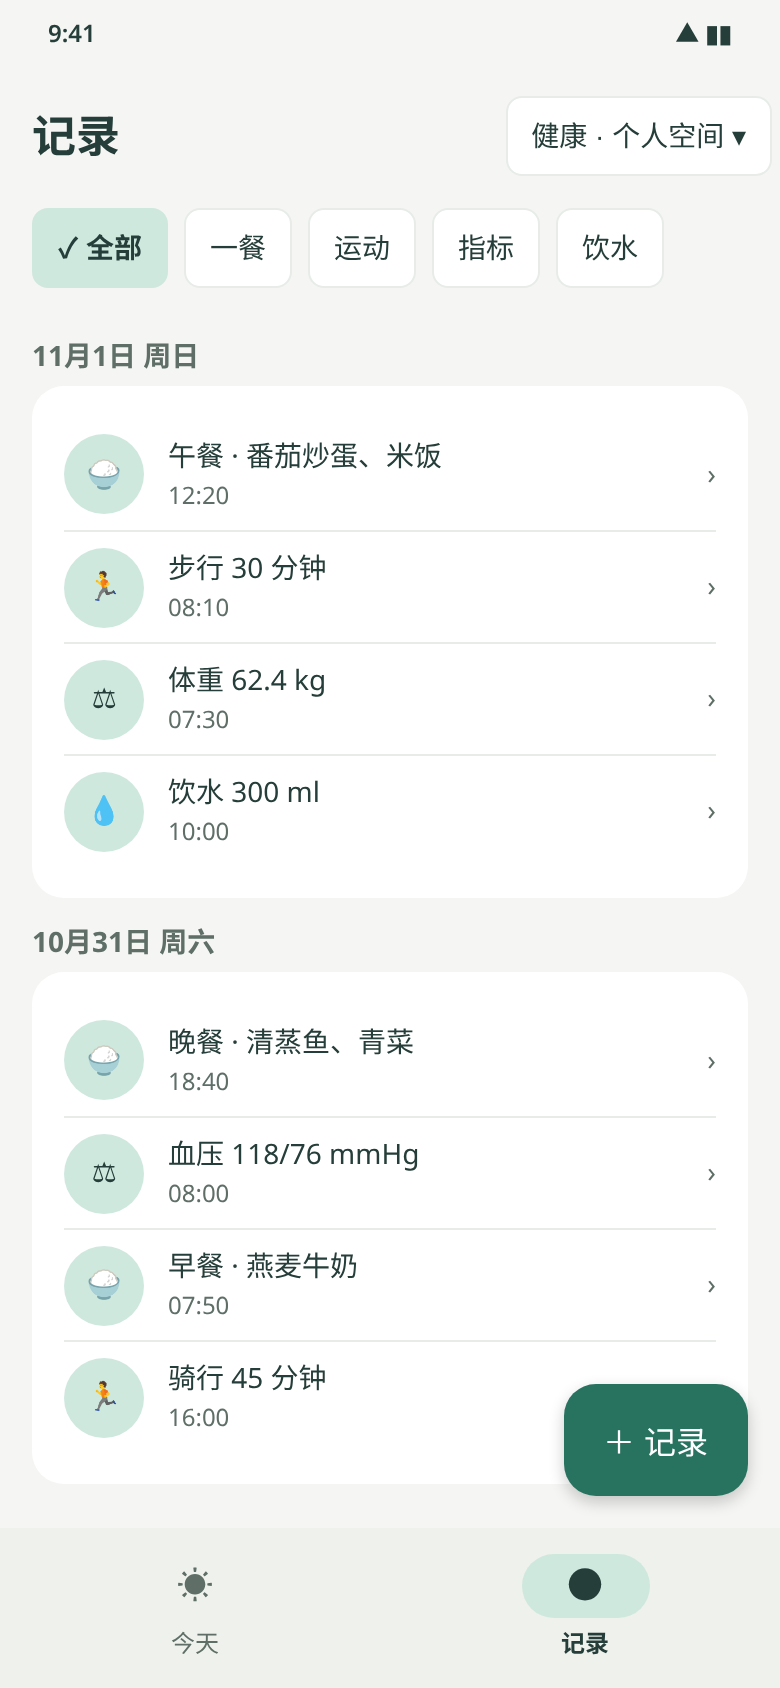
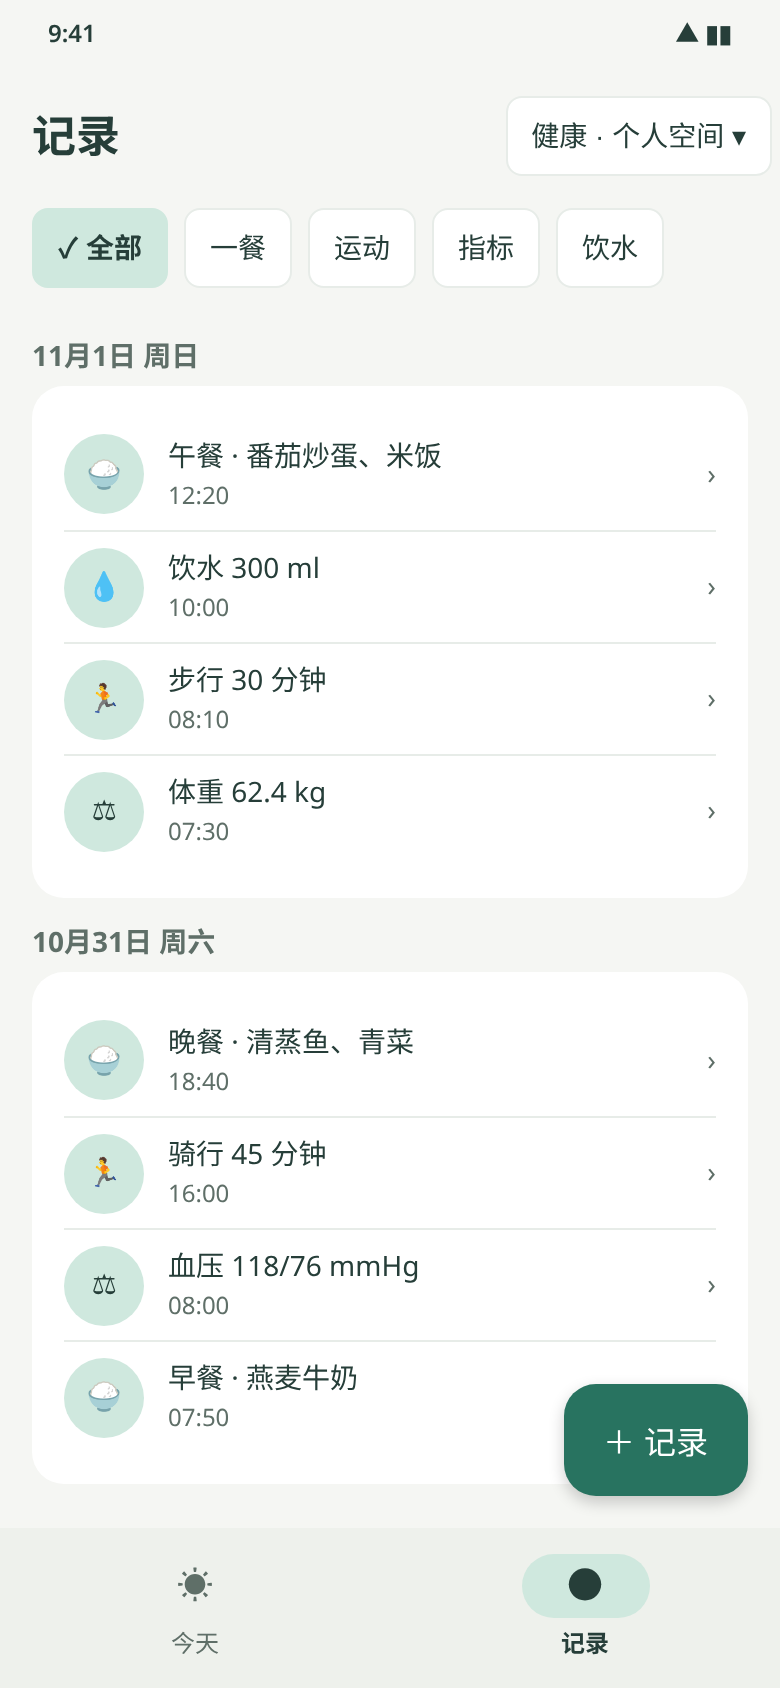
设计：令牌认证说明、同日按时间倒序、409 重试本地日志

diff --git a/docs/native-v1/prototype.html b/docs/native-v1/prototype.html
@@ -61,7 +61,7 @@ S['today-offline']=['今天 · 离线 + 待同步',()=>today({pending:1,banner:'
 S['today-syncfail']=['今天 · 同步失败',()=>today({pending:1,banner:'<div class="banner fail" role="alert">⚠ 1 条记录同步失败<button class="btn t" onclick="go(\'today-syncing\')">重试</button></div>'})];
 S['today-finance']=['今天 · 金融（只读）',()=>today({wb:'金融',nofab:1,body:`<div class="card"><h3>11月1日 周日</h3><div class="hint">金融工作台 · 只读</div></div><div class="card"><h3>最近备忘</h3><div class="row"><span class="ic">✎</span><div class="t">季度定投计划复盘<div class="small">10月30日</div></div></div><div class="row"><span class="ic">✎</span><div class="t">信用卡账单日改到 5 号<div class="small">10月28日</div></div></div></div><div class="card"><h3>待办</h3><div class="row"><span class="ic">☐</span><div class="t">11月10日前缴房贷<div class="small">截止 11月10日</div></div></div><div class="row"><span class="ic">☐</span><div class="t">整理年度保险单<div class="small">无截止</div></div></div></div><p class="hint" style="text-align:center;padding:24px 0">金融记录暂时请在网页版添加</p>`})];
 S['sync-conflict']=['同步冲突 · Snackbar',()=>today({snack:'<div class="snack" role="status">『早餐』已在别处修改，已更新为最新内容<button>知道了</button></div>'})];
-const recs=(f)=>{const all=[['11月1日 周日',[['meal','🍚','午餐 · 番茄炒蛋、米饭','12:20'],['exercise','🏃','步行 30 分钟','08:10'],['metric','⚖','体重 62.4 kg','07:30'],['water','💧','饮水 300 ml','10:00']]],['10月31日 周六',[['meal','🍚','晚餐 · 清蒸鱼、青菜','18:40'],['metric','⚖','血压 118/76 mmHg','08:00'],['meal','🍚','早餐 · 燕麦牛奶','07:50'],['exercise','🏃','骑行 45 分钟','16:00']]]];
+const recs=(f)=>{const all=[['11月1日 周日',[['meal','🍚','午餐 · 番茄炒蛋、米饭','12:20'],['water','💧','饮水 300 ml','10:00'],['exercise','🏃','步行 30 分钟','08:10'],['metric','⚖','体重 62.4 kg','07:30']]],['10月31日 周六',[['meal','🍚','晚餐 · 清蒸鱼、青菜','18:40'],['exercise','🏃','骑行 45 分钟','16:00'],['metric','⚖','血压 118/76 mmHg','08:00'],['meal','🍚','早餐 · 燕麦牛奶','07:50']]]];
 return sb+`<div class="ab"><h1>记录</h1><button class="chip" onclick="go('switcher')">健康 · 个人空间 ▾</button></div><div class="content"><div class="ftabs" role="tablist">${[['','全部'],['meal','一餐'],['exercise','运动'],['metric','指标'],['water','饮水']].map(([k,t])=>`<button class="chip ${k==f?'on':''}" role="tab" aria-selected="${k==f}" onclick="go('${k?'records-filtered':'records'}')">${k==f?'✓ ':''}${t}</button>`).join('')}</div>${all.map(([d,rs])=>{rs=rs.filter(r=>!f||r[0]==f);return rs.length?`<div class="gh">${d}</div><div class="card">${rs.map(r=>`<div class="row" onclick="go('form-meal-edit')"><span class="ic">${r[1]}</span><div class="t">${r[2]}<div class="small">${r[3]}</div></div><span class="hint">›</span></div>`).join('')}</div>`:''}).join('')}</div><button class="fab" onclick="go('add-sheet')">＋ 记录</button>`+nb(1)};
 S['records']=['记录 · 全部',()=>recs('')];
 S['records-filtered']=['记录 · 筛选一餐',()=>recs('meal')];

diff --git a/docs/native-v1/design.md b/docs/native-v1/design.md
@@ -41,7 +41,7 @@ NavigationBar 仅 2 项：「今天」「记录」。账号入口为今天页 ap
 - 主按钮 48dp 全宽；登录中：禁用 + 18dp spinner +「登录中…」，按钮宽度固定不跳动。
 - 状态行（固定 24dp 高，role=status）：3s 后「网络较慢，正在连接…」；15s 取消请求，显示「连接超时，请重试」（error 色），按钮恢复。
 - 401：密码框 error 态，下方「邮箱或密码不正确」。
-- 会话：cookie 存 secure storage，30 天自动续期；启动时有 cookie 直接进今天（先用缓存），后台 `/api/auth/me`，401 才回登录。
+- 会话：App 登录后拿到专用令牌，存在系统安全存储里，请求时放在 Authorization: Bearer 头里，30 天有效，用着自动续期；启动时有令牌直接进今天（先用缓存），后台 `/api/auth/me`，401 才回登录。
 ### 今天（today*.png）
 - 顺序：离线/失败横幅 → 日期概要卡 → 4 个快捷按钮（72dp）→ 今日记录卡（行 56dp+，图标 40 圆）。
 - 空状态：概要显示「今天还没有记录」，插画卡「从第一条记录开始」。
@@ -50,7 +50,7 @@ NavigationBar 仅 2 项：「今天」「记录」。账号入口为今天页 ap
 概要卡「金融工作台 · 只读」→「最近备忘」卡 → 「待办」卡（只读行）；隐藏 FAB 与快捷按钮；空白区居中 hint「金融记录暂时请在网页版添加」。
 ### 记录（records.png, records-filtered.png）
 - App bar「记录」+ 工作台切换片；下方横向 FilterChip：全部 / 一餐 / 运动 / 指标 / 饮水（单选，选中 = ✓ + 底色 + 加粗，高 40、点击区 48）。
-- 按日期分组（组标题 14sp/700 hint 色），组内卡片 + 56dp 行，右侧 ›；点行进入编辑表单。保留 FAB。
+- 按日期分组（组标题 14sp/700 hint 色），组内卡片 + 56dp 行，右侧 ›；同一天内按时间倒序（最新在上）；点行进入编辑表单。保留 FAB。
 - 分页：本地缓存按日期倒序懒加载。
 ### 新建底部表单（add-sheet.png）
 四项 56dp 行；底部提示「用药、就诊、附件请在网页版记录」。
@@ -76,7 +76,7 @@ NavigationBar 仅 2 项：「今天」「记录」。账号入口为今天页 ap
 | 待同步 | 记录行右侧 badge「⏱ 待同步」（图标+文字） |
 | 失败 | error 横幅「N 条记录同步失败 [重试]」；行内 badge 变「同步失败」 |
 - 本地 SQLite 按 `userId/workbench/space` 分库或分表；退出登录、切账号删除整库。
-- 写入先落本地，App 生成 UUID v4 作为 id，入队上传。服务端（dev 另开 PR）：`id` 可选；同账号同空间重复提交同 id → 返回已有记录（不重复、不报错，视为成功）；该 id 属于其他空间/账号 → 409，App 标记该条「同步失败」，并以新 UUID 重试一次后仍失败再提示。
+- 写入先落本地，App 生成 UUID v4 作为 id，入队上传。服务端（dev 另开 PR）：`id` 可选；同账号同空间重复提交同 id → 返回已有记录（不重复、不报错，视为成功）；该 id 属于其他空间/账号 → 409，App 标记该条「同步失败」，并以新 UUID 重试一次后仍失败再提示；每次 409 重试都在本机写一条日志（时间、类型、旧 id、新 id、结果），供排查。
 - 冲突：服务端为准，覆盖本地，Snackbar 点名记录：「『早餐』已在别处修改，已更新为最新内容」；服务端已删除 → 本地删除，「『早餐』已在别处删除」。多条合并为「N 条记录已在别处更新」。（sync-conflict.png）
 - 饮水目标：读服务端设置（`/api/settings`）中的目标，无则默认 2000 ml；v1 不提供修改入口。
 - 回前台、联网、下拉刷新时同步；保存成功 SnackBar「记录已保存」。
@@ -86,7 +86,7 @@ NavigationBar 仅 2 项：「今天」「记录」。账号入口为今天页 ap
 
 ## 7. 开发需要
 1. 后端：`/api/items` 支持可选 id 与上述幂等/409 语义（dev PR）。
-2. Cookie 续期策略在原生 http client（cookie_jar + secure storage）。
+2. 专用令牌：登录返回令牌，存系统安全存储，`Authorization: Bearer` 发送，30 天有效、使用中自动续期。
 3. 本地库 schema 与同步队列；4 个表单字段与服务端校验对齐（server.mjs `put()`）。
 
 ## 产品决定（2026-11-01）
